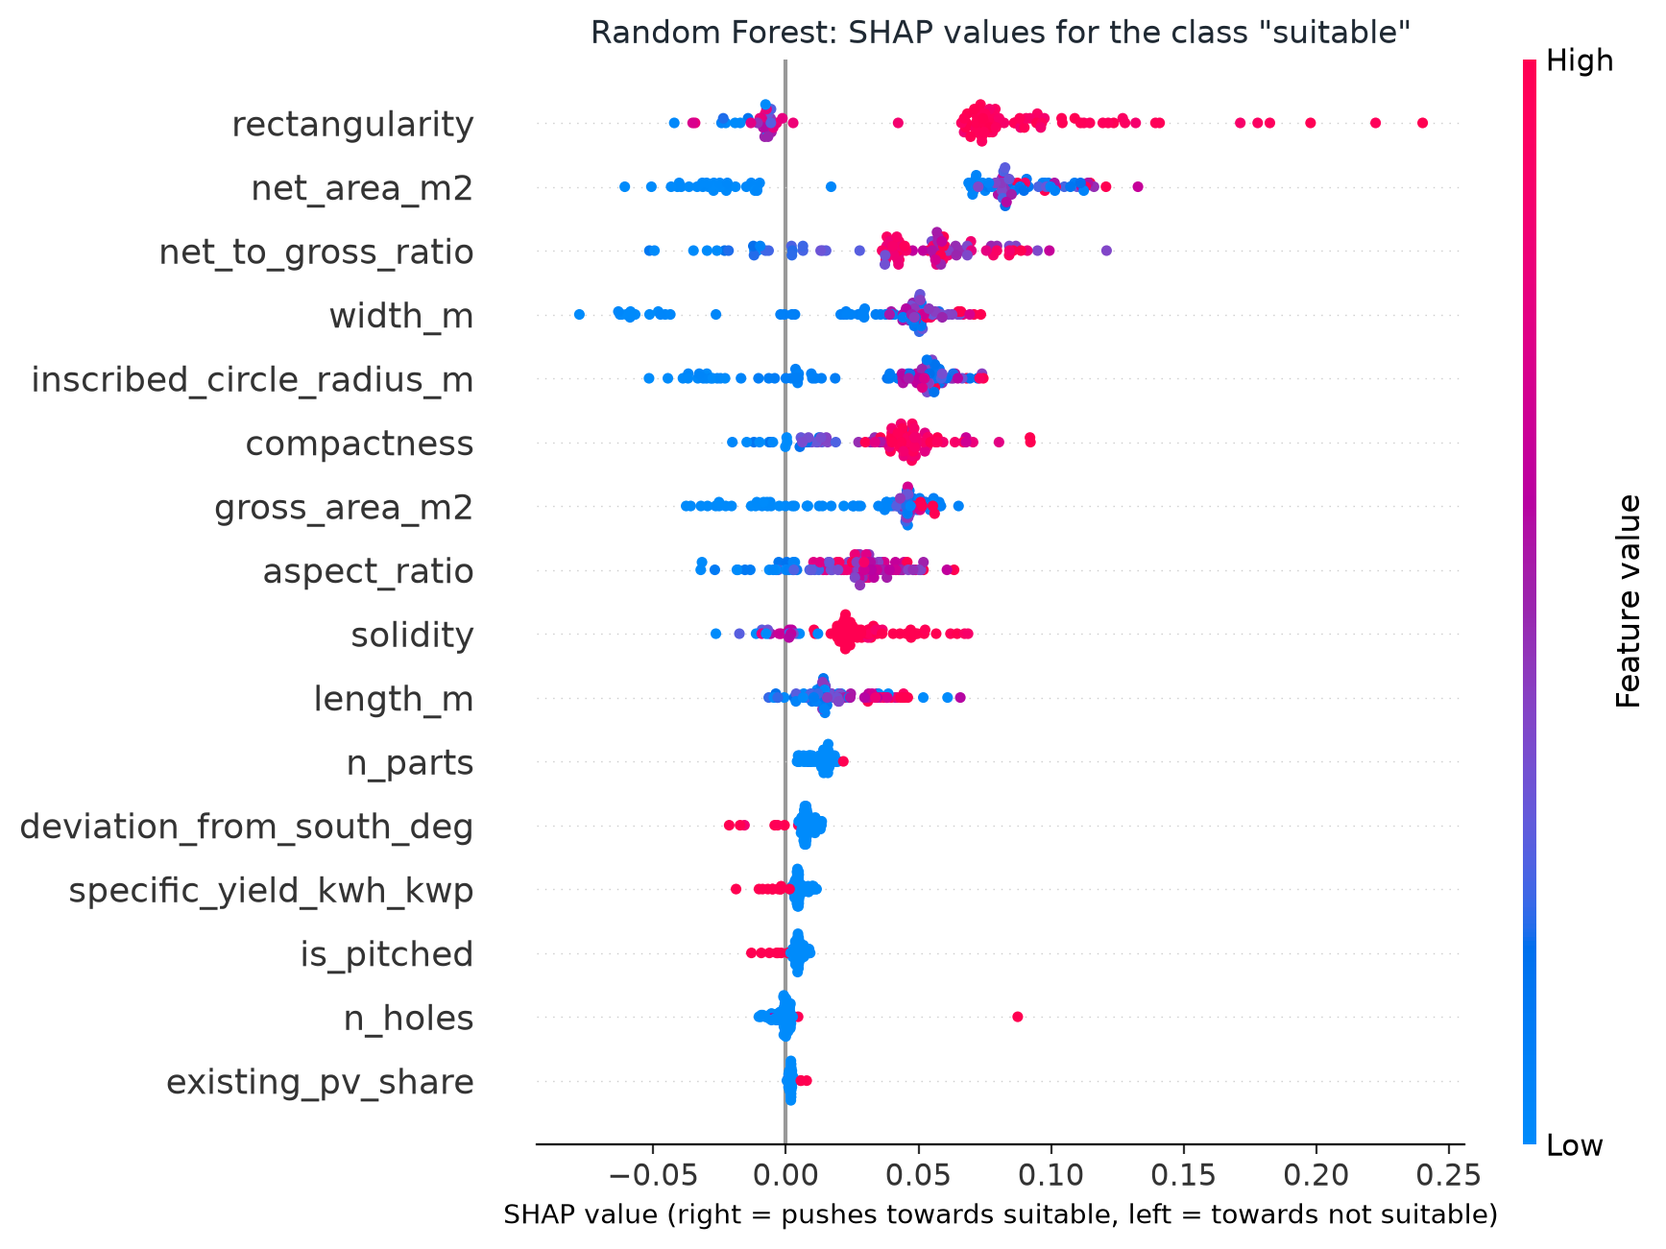
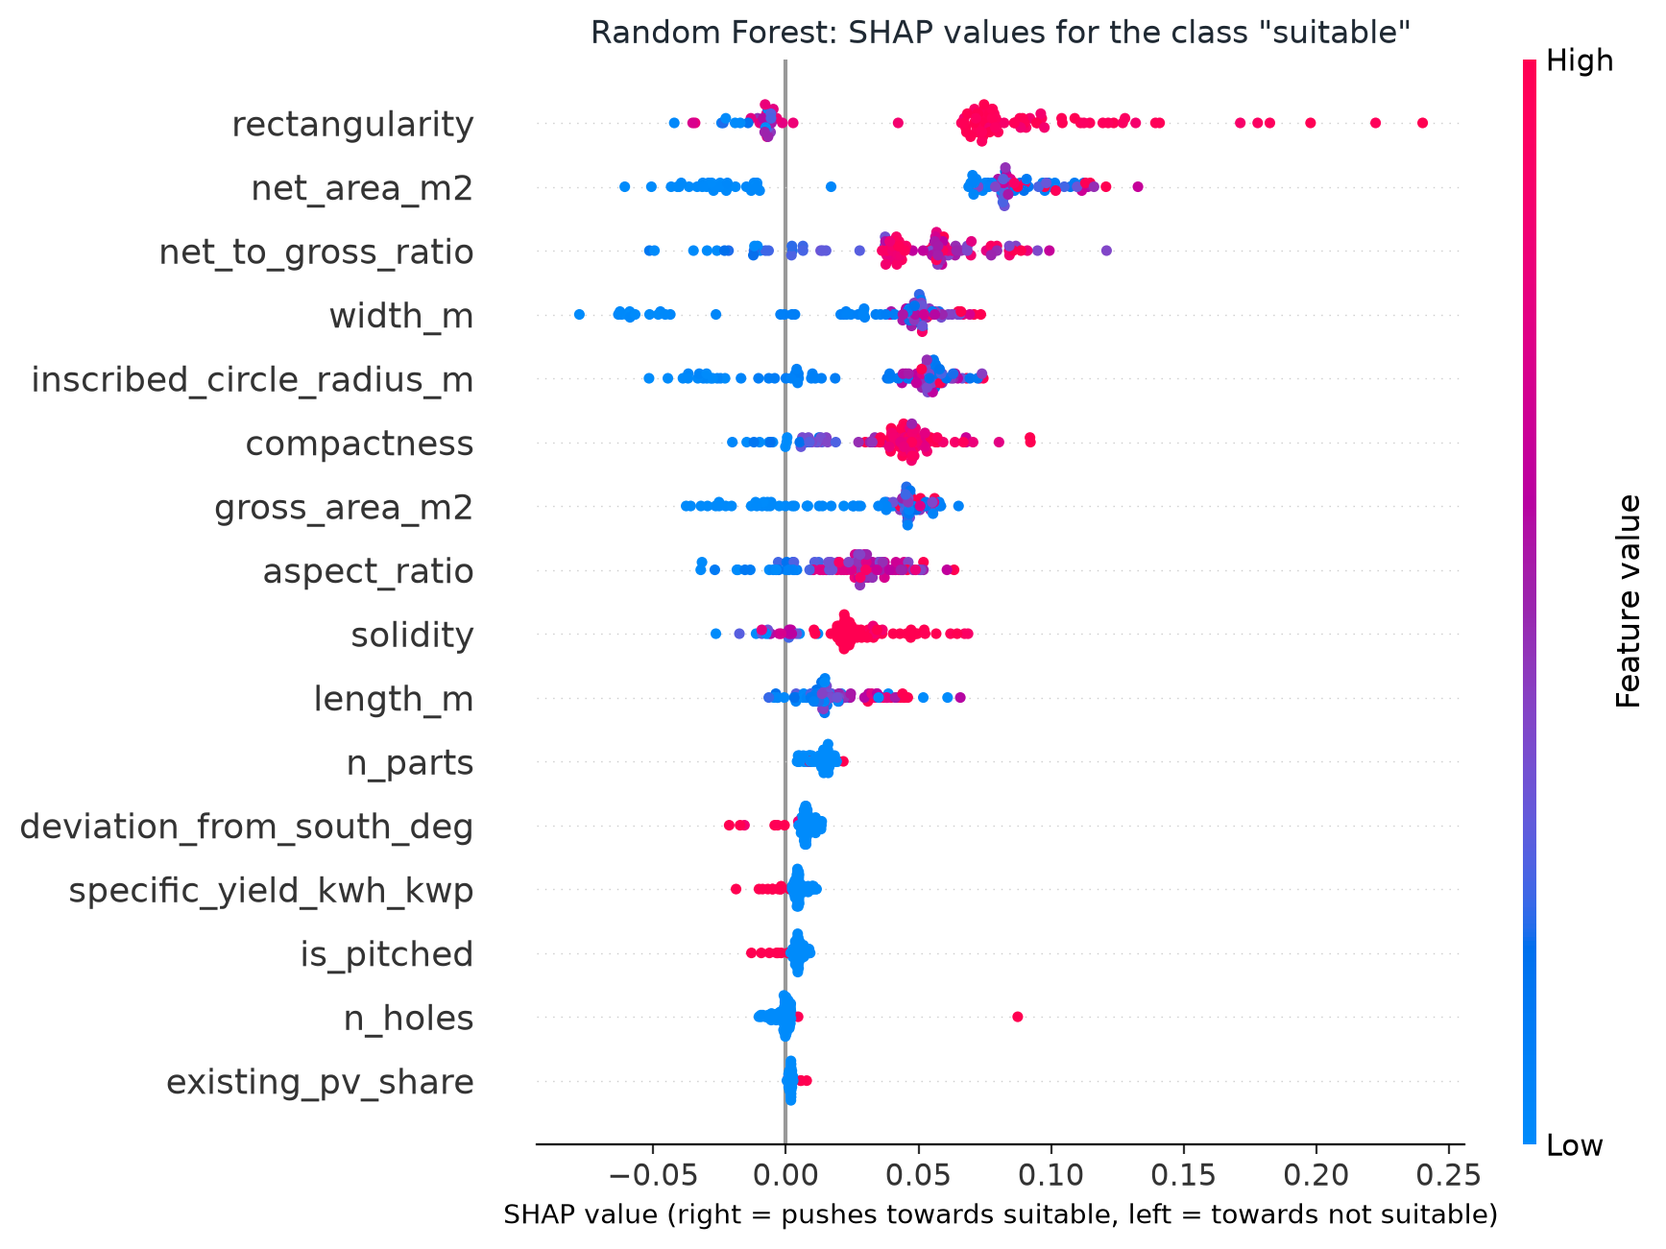
Uygunluk: Extra Trees ana model (hoca karari); SHAP ve permutasyon onemi uc modeli kapsiyor
KARARLAR.md: 27 Kasim 2026 karari (raporda tum modeller, uygulamada Extra Trees, uygun_et).
DURUM.md: Yigit bolumune not. API.md: ana model satiri guncellendi.
proje/uygunluk_modeli/: kod etiketleri, README, sekiller ve sonuclar; skorlar degismedi.

Claude-Session: https://claude.ai/code/session_01QfHfAxqdpahbrpKAm6Rini

diff --git a/proje/uygunluk_modeli/make_figures.py b/proje/uygunluk_modeli/make_figures.py
@@ -9,9 +9,10 @@ Usage
 
 Outputs (written to the given folder)
     confusion_matrices.png   2 x 2 confusion matrix of each method (test-label version B)
-    shap_importance.png      mean |SHAP| per feature for Random Forest and XGBoost
+    shap_importance.png      mean |SHAP| per feature for Random Forest, XGBoost and Extra Trees
     shap_beeswarm_random_forest.png
     shap_beeswarm_xgboost.png
+    shap_beeswarm_extra_trees.png
     shap_importance.csv      the numbers behind shap_importance.png
     permutation_importance.png   drop in macro F1 when one feature is shuffled
     permutation_importance.csv   the numbers behind permutation_importance.png
@@ -57,7 +58,7 @@ BAR_COLOR = "#2f6fb0"    # single hue: the bars show magnitude, not categories
 DISPLAY_NAMES = {
     "random_forest": "Random Forest",
     "xgboost": "XGBoost",
-    "extra_trees_additional": "Extra Trees (additional)",
+    "extra_trees": "Extra Trees (main model)",
 }
 
 
@@ -87,7 +88,7 @@ def prepare():
 def plot_confusion_matrices(y_true, keep, predictions, out_dir):
     """One 2 x 2 matrix per method. Rows = true class, columns = predicted class."""
     titles = dict(DISPLAY_NAMES, rule=f"Rule baseline (full PV or net area < {int(sm.MIN_NET_AREA_M2)} m²)")
-    order = ["random_forest", "xgboost", "extra_trees_additional", "rule"]
+    order = ["random_forest", "xgboost", "extra_trees", "rule"]
     fig, axes = plt.subplots(1, 4, figsize=(15, 4.2))
     for ax, name in zip(axes, order):
         matrix = confusion_matrix(y_true[keep], predictions[name][keep], labels=[0, 1])
@@ -126,8 +127,8 @@ def shap_values_for_suitable(model, X):
 
 
 def plot_shap(X_model, fitted, out_dir):
-    """Mean |SHAP| bar chart for both proposal models, plus one beeswarm plot per model."""
-    names = ["random_forest", "xgboost"]
+    """Mean |SHAP| bar chart for the three models, plus one beeswarm plot per model."""
+    names = ["random_forest", "xgboost", "extra_trees"]
     shap_values = {name: shap_values_for_suitable(fitted[name], X_model) for name in names}
 
     # 1) importance = mean absolute SHAP value per feature
@@ -135,7 +136,7 @@ def plot_shap(X_model, fitted, out_dir):
                               index=sm.FEATURES)
     importance.round(4).to_csv(os.path.join(out_dir, "shap_importance.csv"), index_label="feature")
 
-    fig, axes = plt.subplots(1, 2, figsize=(13, 6))
+    fig, axes = plt.subplots(1, 3, figsize=(19, 6))
     for ax, name in zip(axes, names):
         column = importance[DISPLAY_NAMES[name]].sort_values()
         ax.barh(column.index, column.values, color=BAR_COLOR, height=0.65)
@@ -143,7 +144,7 @@ def plot_shap(X_model, fitted, out_dir):
             ax.text(value, y_position, f"  {value:.3f}", va="center", fontsize=9, color=INK)
         ax.set_title(DISPLAY_NAMES[name], fontsize=12, color=INK)
         # the two models use different output scales, so each panel has its own x-axis
-        unit = "probability of suitable" if name == "random_forest" else "log-odds of suitable"
+        unit = "log-odds of suitable" if name == "xgboost" else "probability of suitable"
         ax.set_xlabel(f"Mean |SHAP value| ({unit})", fontsize=10, color=MUTED)
         ax.set_xlim(0, column.max() * 1.18)
         ax.tick_params(axis="y", length=0, labelsize=10, labelcolor=INK)
@@ -171,9 +172,9 @@ def plot_shap(X_model, fitted, out_dir):
 
 def plot_permutation_importance(X_model, y_model, fitted, out_dir):
     """Drop in macro F1 after shuffling one feature (mean and standard deviation over repeats)."""
-    names = ["random_forest", "xgboost"]
+    names = ["random_forest", "xgboost", "extra_trees"]
     table = {}
-    fig, axes = plt.subplots(1, 2, figsize=(13, 6), sharex=True)
+    fig, axes = plt.subplots(1, 3, figsize=(19, 6), sharex=True)
     for ax, name in zip(axes, names):
         result = permutation_importance(fitted[name], X_model.to_numpy(), y_model, scoring="f1_macro",
                                         n_repeats=N_PERMUTATION_REPEATS, random_state=sm.SEED, n_jobs=2)
@@ -216,10 +217,10 @@ def main():
     importance = plot_shap(X_model, fitted, out_dir)
     permutation = plot_permutation_importance(X_model, y_true[reaches_classifier], fitted, out_dir)
 
-    print("Mean |SHAP| per feature (largest first, Random Forest order):")
-    print(importance.sort_values("Random Forest", ascending=False).round(3).to_string())
-    print("\nPermutation importance (drop in macro F1, largest first, Random Forest order):")
-    print(permutation.sort_values("Random Forest mean", ascending=False).round(3).to_string())
+    print("Mean |SHAP| per feature (largest first, Extra Trees order):")
+    print(importance.sort_values("Extra Trees (main model)", ascending=False).round(3).to_string())
+    print("\nPermutation importance (drop in macro F1, largest first, Extra Trees order):")
+    print(permutation.sort_values("Extra Trees (main model) mean", ascending=False).round(3).to_string())
     print(f"\nSaved figures to: {out_dir}/")
 
 

diff --git a/proje/uygunluk_modeli/suitability_model.py b/proje/uygunluk_modeli/suitability_model.py
@@ -7,9 +7,9 @@ Pipeline
     2. For every other roof, a classifier trained on 200 hand-labelled training roofs
        predicts suitable / not suitable from 16 numeric features
        (6 basic features + 10 footprint-shape features).
-    3. The classifiers (Random Forest, XGBoost, plus Extra Trees as an additional
-       comparison) are evaluated on the 111 independently hand-labelled test roofs and
-       compared with a rule-only baseline.
+    3. The classifiers (Random Forest, XGBoost and Extra Trees) are evaluated on the 111
+       independently hand-labelled test roofs and compared with a rule-only baseline.
+       Extra Trees scored best and is the model used in the application; all three are reported.
 
 Evaluation protocol
     - Hyper-parameters are fixed and deliberately simple. The test set was never used
@@ -186,8 +186,9 @@ def build_models(y_train):
         "xgboost": XGBClassifier(
             n_estimators=150, max_depth=3, learning_rate=0.05, subsample=0.9, colsample_bytree=0.9,
             scale_pos_weight=negative_to_positive, eval_metric="logloss", n_jobs=2),
-        # Not named in the project proposal; kept as an additional comparison only.
-        "extra_trees_additional": ExtraTreesClassifier(
+        # Main model used in the application (advisor decision: report all models, use the best in the app).
+        # Random Forest and XGBoost are the two models named in the project proposal and are reported alongside.
+        "extra_trees": ExtraTreesClassifier(
             n_estimators=300, min_samples_leaf=3, class_weight="balanced", n_jobs=2),
     }
 

diff --git a/proje/uygunluk_modeli/predict_all_roofs.py b/proje/uygunluk_modeli/predict_all_roofs.py
@@ -26,8 +26,8 @@ Output: cati_uygunluk.csv (one row per roof, joins to every other file on cati_i
 Notes
     - Predictions for training roofs are in-sample: the model has seen these roofs, so they
       say nothing about accuracy. Accuracy comes only from the test roofs (results.json).
-    - Which model is the main one (Random Forest or Extra Trees) is not decided yet, so both
-      are written, together with XGBoost (the second model named in the proposal). The decision threshold is 0.5 as in the evaluation.
+    - Extra Trees is the main model used in the application (uygun_et / p_uygun_et).
+      Random Forest and XGBoost are written as well so the three can be compared. The decision threshold is 0.5 as in the evaluation.
 """
 import os
 import sys
@@ -63,7 +63,7 @@ def main():
 
     models = sm.build_models(y_train)
     out = pd.DataFrame({"cati_id": roofs["roof_id"].to_numpy()})
-    for short, name in [("rf", "random_forest"), ("xgb", "xgboost"), ("et", "extra_trees_additional")]:
+    for short, name in [("rf", "random_forest"), ("xgb", "xgboost"), ("et", "extra_trees")]:
         fitted = clone(models[name]).set_params(random_state=sm.SEED).fit(X_train, y_train)
         decision, probability = sm.predict_with_rule_override(fitted, X_all, fully_covered_by_pv)
         out[f"p_uygun_{short}"] = np.where(fully_covered_by_pv, np.nan, probability.round(3))

diff --git a/proje/uygunluk_modeli/README.md b/proje/uygunluk_modeli/README.md
@@ -1,6 +1,10 @@
 # Rooftop PV suitability model (stage 1: "Can panels be installed on this roof?")
 
-Prepared by Yiğit Eren Yıldırım, 14 November 2026
+Prepared by Yiğit Eren Yıldırım, 14 November 2026; updated 27 November 2026 (Extra Trees is the main model)
+
+## Model choice
+
+Advisor decision (27 November 2026): report the results of all models; use the best-performing model in the application. **Extra Trees** scored best on the hand-labelled test set and is the model used in the application (`uygun_et` in `model_verisi/uygunluk/cati_uygunluk.csv`). Random Forest and XGBoost, the two models named in the project proposal, are reported alongside, together with the rule baseline.
 
 ## How to run
 
@@ -16,7 +20,7 @@ Outputs are written to `results/`. Input files are never modified.
 
 | File | Content |
 |---|---|
-| `suitability_model.py` | Trains Random Forest, XGBoost and the rule baseline, evaluates them on the test set |
+| `suitability_model.py` | Trains Extra Trees, Random Forest and XGBoost, evaluates them and the rule baseline on the test set |
 | `uygunluk_veri_tablosu.csv`, `cati_uretim.csv`, `sekil_ozellikleri.csv` | Features of all 1,085 roofs (from the shared data pipeline; Turkish column names are renamed inside the script) |
 | `egitim_etiket_v2.csv` | 200 hand-labelled training roofs (roof 1391 is not a roof and is not used) |
 | `test_etiketli_birlesik.csv` | 111 hand-labelled test roofs (original labels) |
@@ -25,7 +29,7 @@ Outputs are written to `results/`. Input files are never modified.
 | `results/results.json` | All scores, including confusion matrices |
 | `results/test_predictions.csv` | Per-roof labels (three versions) and predictions |
 | `results/confusion_matrices.png` | Confusion matrix of each method (label version B, seed 42) |
-| `results/shap_importance.png`, `results/shap_importance.csv` | Mean absolute SHAP value per feature for Random Forest and XGBoost |
+| `results/shap_importance.png`, `results/shap_importance.csv` | Mean absolute SHAP value per feature for Random Forest, XGBoost and Extra Trees |
 | `results/shap_beeswarm_*.png` | SHAP beeswarm plots: one dot per roof, right = pushes towards "suitable" |
 | `results/permutation_importance.png`, `results/permutation_importance.csv` | Drop in macro F1 when one feature is shuffled (50 shuffles per feature) |
 
@@ -33,7 +37,7 @@ Outputs are written to `results/`. Input files are never modified.
 
 - Roofs whose existing PV covers the whole roof are "not suitable" by a team rule and never reach the classifier.
 - For all other roofs the classifier learns from 200 hand labels using 16 numeric features: 6 basic (net area, gross area, existing PV share, pitched flag, deviation from south, specific yield) and 10 footprint-shape features (width, length, aspect ratio, compactness, solidity, rectangularity, number of parts, number of holes, inscribed-circle radius, net-to-gross ratio).
-- Hyper-parameters are fixed and simple (RF: 300 trees, depth 6; XGBoost: 150 trees, depth 3). The test set was not used for any model choice.
+- Hyper-parameters are fixed and simple (Extra Trees: 300 trees, at least 3 roofs per leaf; RF: 300 trees, depth 6; XGBoost: 150 trees, depth 3). Class weights give each "not suitable" roof about 6.4 times the weight of a "suitable" roof. The test set was not used to tune any model.
 - Roofs within 5 m of a test roof were excluded from the training sample.
 
 ## Test-label versions
@@ -48,14 +52,14 @@ Environment: scikit-learn 1.6.1, xgboost 3.1.2 (see `requirements.txt`).
 
 | Method | F1 suitable | F1 not suitable | Macro F1 |
 |---|---|---|---|
+| **Extra Trees (main model)** | **0.961** | **0.829** (identical for all 15 seeds) | **0.895** |
 | Random Forest | 0.953 | 0.756 (0.722–0.778) | 0.854 |
 | XGBoost | 0.941 | 0.718 (0.684–0.757) | 0.830 |
 | Rule baseline (full PV or net area < 100 m²) | 0.957 | 0.778 | 0.867 |
-| Extra Trees (additional comparison) | 0.961 | 0.829 | 0.895 |
 
-With the original labels (A), Random Forest scores F1 suitable 0.942, F1 not suitable 0.716, macro F1 0.829.
+With the original labels (A): Extra Trees F1 suitable 0.950, F1 not suitable 0.791, macro F1 0.870; Random Forest 0.942 / 0.716 / 0.829.
 
-Confusion matrix of Random Forest (seed 42, version B): 13 of 20 "not suitable" roofs caught, 7 missed, 2 false alarms among 90 "suitable" roofs.
+Confusion matrices (seed 42, version B), "not suitable" roofs caught / missed / false alarms among 90 "suitable" roofs: Extra Trees 17 / 3 / 4; Random Forest 13 / 7 / 2; XGBoost 13 / 7 / 5; rule 14 / 6 / 2. ROC-AUC of Extra Trees on the roofs that reach the classifier: 0.938.
 
 ### Sensitivity to the library version
 
@@ -63,22 +67,26 @@ Random Forest results depend on the scikit-learn version, because different vers
 
 ## Caveats
 
+- Extra Trees is ahead of the rule baseline, but the difference is not statistically significant (95% bootstrap interval of the macro-F1 difference: -0.057 to 0.119); with 20 "not suitable" test roofs it corresponds to about three roofs.
 - Random Forest and the rule baseline are statistically indistinguishable (95% bootstrap interval of the macro-F1 difference: -0.079 to 0.031). Depending on the library version, Random Forest is slightly below or slightly above the rule on the 'not suitable' class.
 - A model trained on rule-based labels reproduces the rule exactly; its score equals the rule-baseline row.
 - The test set holds only 20 "not suitable" roofs, so one roof moves that F1 by about 0.03.
 - All labels come from a single labeller.
 - The 100 m² area threshold is not a team decision yet; it is used here for comparison only.
-- Shape features clearly helped Random Forest. SAM quality fields, extra engineered features, probability-threshold tuning and a wide hyper-parameter search did not help.
+- Shape features clearly helped the tree models. SAM quality fields, extra engineered features, probability-threshold tuning and a wide hyper-parameter search did not help.
 
 ## What SHAP shows
 
-- Both models rely mainly on net area, rectangularity, width and the other shape features. Small, narrow or irregular footprints push a roof towards "not suitable".
-- Orientation, specific yield, the pitched flag and the existing-PV share contribute almost nothing. Specific yield is nearly constant within each region, and fully PV-covered roofs are handled by the rule before the classifier.
+- Extra Trees relies mainly on the net-to-gross ratio, inscribed-circle radius, width, compactness and net area: it asks above all whether the roof is narrow and how much of it the edge setbacks remove.
+- Random Forest and XGBoost rely mainly on net area, rectangularity, width and the other shape features. Small, narrow or irregular footprints push a roof towards "not suitable".
+- In Extra Trees, specific yield and the pitched flag carry a small weight. This is not an irradiation effect: specific yield has one value per region (Atatürk OIZ and Çiğli), so the model uses it as a region marker, and all pitched roofs are Çiğli schools.
+- In Random Forest and XGBoost, orientation, specific yield, the pitched flag and the existing-PV share contribute almost nothing. Specific yield is nearly constant within each region, and fully PV-covered roofs are handled by the rule before the classifier.
 - SHAP explains what the model does, not what is true on the ground. With only 27 "not suitable" training roofs, the ranking of mid-level features is not stable.
 
 ## What permutation importance shows
 
+- Extra Trees: shuffling the net-to-gross ratio (drop 0.10), inscribed-circle radius (0.08), width (0.07) or net area (0.04) lowers macro F1 most. Rectangularity has no importance of its own here; its information is carried by compactness and the net-to-gross ratio. Specific yield shows a small drop (0.03), for the region-marker reason given above.
 - Random Forest: shuffling any one of eight features (rectangularity, net-to-gross ratio, net area, width, aspect ratio, inscribed-circle radius, compactness, solidity) lowers macro F1 by 0.05 to 0.11. The model genuinely needs the area and shape information.
 - XGBoost: only net area clearly helps (drop of 0.085). Shuffling solidity, gross area or width slightly raises the score, which means XGBoost uses these features in a way that does not carry over to the test roofs. This fits its lower test score.
-- Orientation, specific yield, the pitched flag and existing-PV share have zero importance in both models.
+- Orientation and the existing-PV share have zero importance in all three models.
 - The whiskers are wide because the test set holds few "not suitable" roofs; only the clear separation between the top group and the zero group should be interpreted.

diff --git a/DURUM.md b/DURUM.md
@@ -35,6 +35,7 @@ Her üye kendi bölümünün en üstüne tarihli madde ekler. Başkasının böl
 - 2026-11-08: Üretim, NPV ve Monte Carlo tamamlandı, ara rapor teslime hazırlandı. Çıktılar `ekonomi/` ve `uretim/` klasörlerinde.
 
 ## Yiğit
+- 2026-11-27: Uygunluk modelinde Extra Trees ana model oldu (hoca kararı, KARARLAR.md). `proje/uygunluk_modeli/` güncellendi: SHAP ve permütasyon önemi artık Extra Trees'i de kapsıyor, README ve kod etiketleri buna göre düzeltildi; skorlar ve `cati_uygunluk.csv` değişmedi. Tarık: NPV sıralaması yalnız `uygun_et` = 1 olan 848 çatıda yapılmalı.
 - 2026-11-24: Uygunluk sonucu 1.085 çatının tamamı için üretildi: `model_verisi/uygunluk/cati_uygunluk.csv` (betik `proje/uygunluk_modeli/predict_all_roofs.py`), alanlar `API.md`'de. RF, XGBoost ve Extra Trees üçü birden yazıldı, ana model kararı hocada. Uygun değil sayısı: RF 152, XGBoost 224, Extra Trees 235, kural 147 (çatı olmayan 2 kayıt hariç). Test skorları değişmedi.
 - 2026-11-24: Uygunluk modeli (aşama 1, "panel kurulabilir mi?") `proje/uygunluk_modeli/` altına eklendi: kod, girdi verisi, 200 elle etiketli eğitim çatısı, 111 test etiketi ve sonuçlar. Ana sonuç (110 test çatısı, 15 tohum ortalaması): RF macro F1 0.854, "uygun değil" F1 0.756; kural (tam dolu GES veya net alan < 100 m²) 0.867 / 0.778; fark anlamlı değil. 100 m² eşiği ekip kararı değil, yalnız karşılaştırma için. Kurulum `requirements.txt` ile (scikit-learn sürümü RF sonucunu değiştiriyor). Bilal'e veri notu: çatı olmayan kayıtlar 1076 ve 1391. ExtraTrees (öneride yok, ek karşılaştırma) macro F1 0.895, "uygun değil" F1 0.829 ile kuralın üstünde ve sonucu tohumdan bağımsız; ana model olarak kullanılması hocanın incelemesine bağlı.
 

diff --git a/KARARLAR.md b/KARARLAR.md
@@ -34,3 +34,6 @@ Buradaki konular kapanmıştır. Yeniden açmak için ekip kararı gerekir. Yeni
 - Şüpheli işaretli 128 çatı üretimde kalır. Bu çatılarda SAM maskesi kullanılmaz: 97'sinde kayıtlı ayak izi, 31'inde insan çizimi kullanılır. Payları üretimin %5,1'i, NPV'nin %5,3'ü.
 - Hocaya yalnız sonuç defteri (`proje/notebooks/colab/sonuc_uretim_npv_harita_2026-11-07.ipynb`) çıktılarıyla gönderilir. Çalıştırınca NPV 4,17 milyar TL çıkmalıdır. `tahmin_modeli.ipynb` gönderilmez: kenar boşluğunu düşmediği için üretimi yaklaşık %20 fazla bulur. `ayak_izi_tespit_colab.ipynb` denenip bırakılan yöntemdir.
 - Colab defterlerinin tek akışta birleştirilmesi ara rapordan sonraki iştir (final için tekrar üretilebilirlik).
+
+## 27 Kasım 2026
+- Uygunluk modeli (hoca kararı): Raporda tüm modellerin sonuçları (Extra Trees, Random Forest, XGBoost ve kural yöntemi) birlikte verilip uygulamada en başarılı olan Extra Trees kullanılacaktır (`model_verisi/uygunluk/cati_uygunluk.csv` içinde `uygun_et`). Sıralama, harita ve LLM açıklamaları bu sütuna göre yapılır.

diff --git a/API.md b/API.md
@@ -58,7 +58,7 @@ Betikle üretilir: `proje/uygunluk_modeli/predict_all_roofs.py`. Elle değiştir
 | `el_etiketi` | 1 / 0 / boş | Elle verilen etiket |
 | `cati_degil` | true / false | Etiketlemede çatı olmadığı görülen kayıtlar (1076, 1391) |
 
-- Ana modelin hangisi olacağı (RF mi Extra Trees mi) hocanın incelemesinde. Karar çıkana kadar arayüz ikisinden birini sabit kullanmasın, alan adını tek yerden değiştirilebilir tutsun.
+- Uygulamada ana model Extra Trees'tir: karar için `uygun_et`, olasılık için `p_uygun_et` kullanılır (KARARLAR.md, 27 Kasım 2026). RF ve XGBoost sütunları karşılaştırma içindir.
 - `cati_degil` true olan kayıtlar haritada uygunluk rengiyle gösterilmemeli.
 - Eğitim çatılarındaki model tahmini, modelin bu çatıları görmüş olması nedeniyle başarı göstergesi değildir.
 
